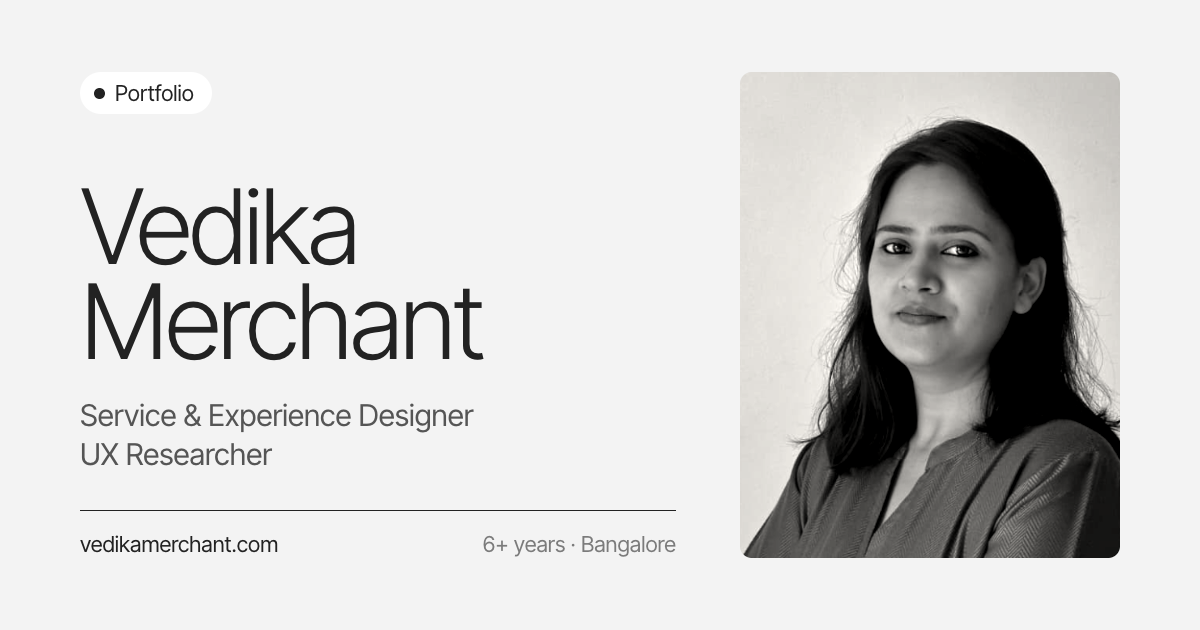
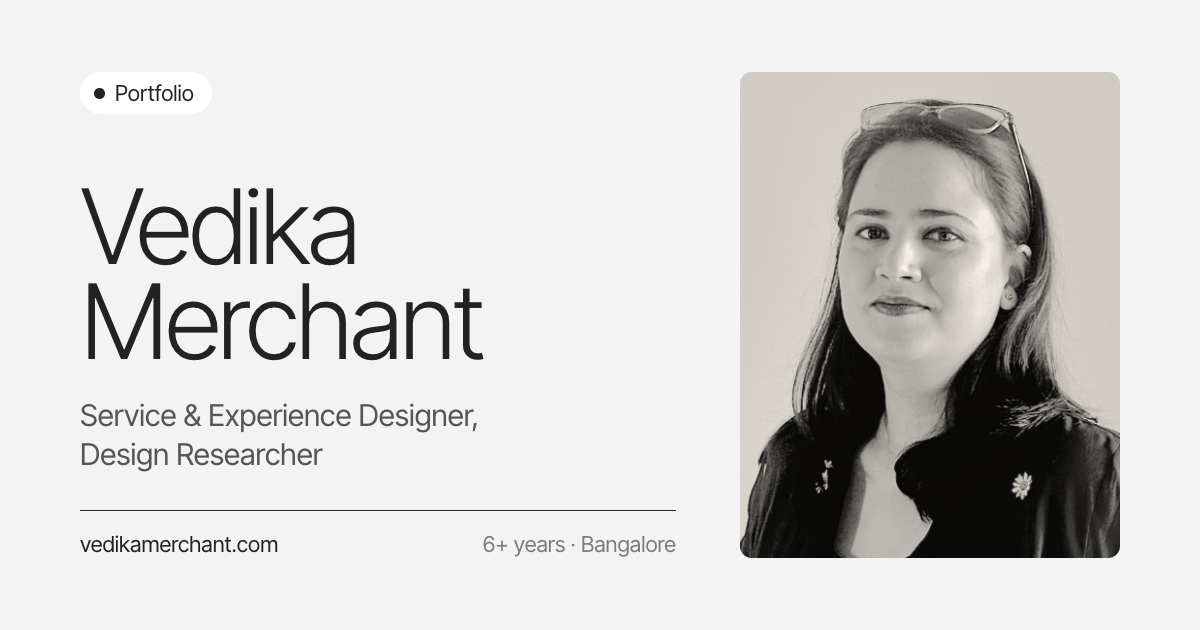
Home page and other changes

Changed region(s): [[0.6167, 0.1508, 0.9558, 0.9048], [0.0617, 0.6937, 0.2775, 0.754]]

diff --git a/Vedika Portfolio.dc.html b/Vedika Portfolio.dc.html
@@ -106,7 +106,7 @@ button{font:inherit;color:inherit;background:none;border:0;padding:0;cursor:poin
     <h1 style="margin-top:{{ titleMt }};font-weight:300">
       <span data-reveal="" data-d=".1" style="display:block;margin-bottom:6px;font-size:22px;font-weight:400;letter-spacing:-0.01em">Hi, I’m</span>
       <span data-reveal="" data-d=".15" style="display:block;font-size:{{ helloSize }};line-height:.86;letter-spacing:-0.022em;margin-left:-.06em;font-weight:300">Vedika</span>
-      <span data-reveal="" data-d=".3" style="display:block;margin-top:{{ subMt }};font-size:18px;font-weight:400;letter-spacing:-0.01em">Optimist | Realist | Workist</span>
+      <span data-reveal="" data-d=".3" style="display:block;margin-top:{{ subMt }};font-size:18px;font-weight:400;letter-spacing:-0.01em">Optimist | Realist | Pragmatist</span>
     </h1>
     <sc-if value="{{ wide }}" hint-placeholder-val="{{ true }}">
       <a href="#about" style="margin-top:auto;margin-bottom:64px;display:inline-flex;align-items:center;gap:6px;align-self:flex-start;font-size:15px">Scroll down <svg style="width:15px;height:15px;animation:nudge 2.2s cubic-bezier(.22,.61,.36,1) infinite"><use href="#i-down"></use></svg></a>
@@ -114,13 +114,13 @@ button{font:inherit;color:inherit;background:none;border:0;padding:0;cursor:poin
   </div>
 
   <sc-if value="{{ wide }}" hint-placeholder-val="{{ true }}">
-    <figure style="position:absolute;z-index:1;margin:0;right:9vw;bottom:0;height:min(calc((100% + 100px) * .86), 860px);aspect-ratio:876 / 1119">
-      <img src="images/hero.webp" width="876" height="1119" alt="Portrait of Vedika with arms crossed" fetchpriority="high" style="width:100%;height:100%;object-fit:cover;object-position:center top;animation:portraitIn 1.6s cubic-bezier(.16,1,.3,1) both .1s">
+    <figure style="position:absolute;z-index:1;margin:0;right:calc(-5vw + 80px);bottom:0;height:min(calc((100% + 100px) * .86), 860px, 58vw);aspect-ratio:1314 / 1678">
+      <img src="images/hero-v4.jpg" width="1095" height="1299" alt="Portrait of Vedika standing with hand on hip" fetchpriority="high" style="position:absolute;left:-23.27%;top:-27.78%;width:137.74%;height:127.98%;max-width:none;object-fit:fill;mix-blend-mode:darken;filter:brightness(1.03);-webkit-mask-image:linear-gradient(to bottom,transparent 6%,#000 20%),radial-gradient(ellipse 56% 72% at 53% 66%,#000 58%,transparent 100%);-webkit-mask-composite:source-in;mask-image:linear-gradient(to bottom,transparent 6%,#000 20%),radial-gradient(ellipse 56% 72% at 53% 66%,#000 58%,transparent 100%);mask-composite:intersect;animation:portraitIn 1.6s cubic-bezier(.16,1,.3,1) both .1s">
     </figure>
   </sc-if>
   <sc-if value="{{ narrow }}" hint-placeholder-val="{{ false }}">
-    <figure style="position:relative;z-index:1;margin:{{ portraitMt }} 0 0 auto;width:{{ portraitW }};aspect-ratio:876 / 1119">
-      <img src="images/hero.webp" width="876" height="1119" alt="Portrait of Vedika with arms crossed" style="width:100%;height:100%;object-fit:cover;object-position:center top">
+    <figure style="position:relative;z-index:1;margin:{{ portraitMt }} 0 0 auto;width:{{ portraitW }};aspect-ratio:1314 / 1678;translate:14% 0">
+      <img src="images/hero-v4.jpg" width="1095" height="1299" alt="Portrait of Vedika standing with hand on hip" style="position:absolute;left:-23.27%;top:-27.78%;width:137.74%;height:127.98%;max-width:none;object-fit:fill;mix-blend-mode:darken;filter:brightness(1.03);-webkit-mask-image:linear-gradient(to bottom,transparent 6%,#000 20%),radial-gradient(ellipse 56% 72% at 53% 66%,#000 58%,transparent 100%);-webkit-mask-composite:source-in;mask-image:linear-gradient(to bottom,transparent 6%,#000 20%),radial-gradient(ellipse 56% 72% at 53% 66%,#000 58%,transparent 100%);mask-composite:intersect">
     </figure>
   </sc-if>
 </header>
@@ -129,7 +129,7 @@ button{font:inherit;color:inherit;background:none;border:0;padding:0;cursor:poin
   <section id="about" data-screen-label="About" style="background:#f3f3f3;display:flex;flex-wrap:wrap;gap:48px clamp(32px, 4vw, 92px);padding:{{ aboutPad }} clamp(20px, 4.3vw, 62px) 60px;align-items:flex-start">
     <div data-reveal="" style="flex:1 1 320px;padding-top:20px;max-width:{{ introMax }}">
       <h2 style="font-size:clamp(34px, 3.2vw, 46px);font-weight:400;line-height:1.12;letter-spacing:-0.012em;text-wrap:balance">About Me</h2>
-      <p style="margin-top:22px;font-size:17px;line-height:1.75;color:#7b7b7b">I’m a service and experience designer and researcher with 6+ years of work experience. Since 2019 I’ve helped teams in energy, automotive, finance and banking turn tangled, offline processes into calm digital services, from research and workshops all the way to pixel-level UI.</p>
+      <p style="margin-top:22px;font-size:17px;line-height:1.75;color:#7b7b7b">I’m a service and experience designer and researcher with 6+ years of work experience. Since 2019 I’ve helped teams in energy, automotive, finance and banking turn tangled, offline processes into seamless digital services, from research and workshops all the way to pixel-level UI.</p>
       <sc-if value="{{ wide }}" hint-placeholder-val="{{ true }}">
         <svg viewBox="0 0 220 230" aria-hidden="true" style="width:clamp(170px, 15vw, 220px);height:auto;margin:76px 0 0 clamp(60px, 9vw, 140px);color:#e3e3e3">
           <path d="M14 222C2 150 44 64 196 36" fill="none" stroke="currentColor" stroke-width="11" stroke-linecap="round"></path>
@@ -412,7 +412,7 @@ const CASES = [
     facts: [{ k: 'Role', v: 'Service & UI UX designer' }, { k: 'Industry', v: 'Automotive' }, { k: 'Duration', v: '7 months' }] },
   { id: 'case-pearstream', num: '03', name: 'Pearstream', sector: 'Financial infrastructure', href: 'Pearstream%20Case%20Study.dc.html', img: 'images/cover-pearstream.jpg', alt: 'Xact Web Portal user details and login screens',
     desc: 'Redesigning the Xact Web Portal, a post-trade connectivity channel for a financial infrastructure provider',
-    facts: [{ k: 'Role', v: 'UX Research & UI UX' }, { k: 'Area', v: 'Finance' }, { k: 'Duration', v: '6 months' }] },
+    facts: [{ k: 'Role', v: 'UX Researcher & UI UX Designer' }, { k: 'Area', v: 'Finance' }, { k: 'Duration', v: '6 months' }] },
   { id: 'case-mature-money', num: '04', name: 'Mature Money', sector: 'Banking', href: 'Mature%20Money%20Case%20Study.dc.html', img: 'images/placeholder-mature-money.jpg', alt: '',
     desc: 'Redesigning identity verification across four channels of a bank mid-merger',
     facts: [{ k: 'Role', v: 'Service Designer' }, { k: 'Area', v: 'Banking' }, { k: 'Duration', v: '4 months' }] },

diff --git a/Resume.dc.html b/Resume.dc.html
@@ -3,11 +3,11 @@
 <head>
 <meta charset="utf-8">
 <meta name="viewport" content="width=device-width, initial-scale=1">
-<meta name="description" content="Service &amp; Experience Designer · UX Researcher">
+<meta name="description" content="Service &amp; Experience Designer · Design Researcher">
 <meta property="og:type" content="website">
 <meta property="og:site_name" content="Vedika Merchant">
 <meta property="og:title" content="Vedika Merchant | Resume">
-<meta property="og:description" content="Service &amp; Experience Designer · UX Researcher">
+<meta property="og:description" content="Service &amp; Experience Designer · Design Researcher">
 <meta property="og:url" content="https://vedikamerchant.com/Resume.dc">
 <meta property="og:image" content="https://vedikamerchant.com/images/share-preview.png">
 <meta property="og:image:width" content="1200">
@@ -37,13 +37,14 @@ ul{padding:0;list-style:none}
 </style>
 </helmet>
 <doc-page size="a4" margin="0.55in">
-  <header style="display:flex;flex-wrap:wrap;justify-content:space-between;align-items:flex-end;gap:10px 24px;padding-bottom:16px"><div style="display:flex;align-items:center;gap:18px"><div style="flex:none;width:84px;height:84px;border-radius:8px;overflow:hidden;background:#efefef"><img src="images/resume-portrait.png" alt="Vedika Merchant" style="display:block;width:100%;height:100%;object-fit:cover;filter:grayscale(1) sepia(.08) contrast(1.18) brightness(1.08)"></div><div style="display:grid;gap:8px">
+  <header style="display:flex;flex-wrap:wrap;justify-content:space-between;align-items:stretch;gap:10px 24px;padding-bottom:16px"><div style="display:flex;align-items:center;gap:18px"><div style="flex:none;align-self:stretch;width:82px;border-radius:6px;overflow:hidden;background:#efefef"><img src="images/resume-photo-v4.png" alt="Vedika Merchant" style="display:block;width:100%;height:100%;object-fit:cover;filter:grayscale(1) sepia(.12) contrast(1.2) brightness(1.4)"></div><div style="display:grid;gap:8px">
     <h1 style="font-size:42px;font-weight:300;line-height:.95;letter-spacing:-0.035em;text-wrap:nowrap">Vedika Merchant</h1>
-    <p style="font-size:16px;line-height:1.35;color:#555">Service &amp; Experience Designer · UX Researcher</p></div></div>
+    <p style="font-size:16px;line-height:1.35;color:#555">Service &amp; Experience Designer · Design Researcher</p></div></div>
     <ul style="display:flex;flex-direction:column;align-items:flex-end;gap:2px;font-size:12.5px;color:#444">
       <li>Bangalore, India</li>
       <li>+91 77770 75395</li>
       <li><a href="mailto:vkmatwork@gmail.com" style="text-decoration:none">vkmatwork@gmail.com</a></li>
+      <li><a href="https://www.vedikamerchant.com" target="_blank" rel="noopener">vedikamerchant.com ↗</a></li>
       <li><a href="https://www.linkedin.com/in/vedika-m/" target="_blank" rel="noopener">linkedin.com/in/vedika-m ↗</a></li>
     </ul>
   </header>
